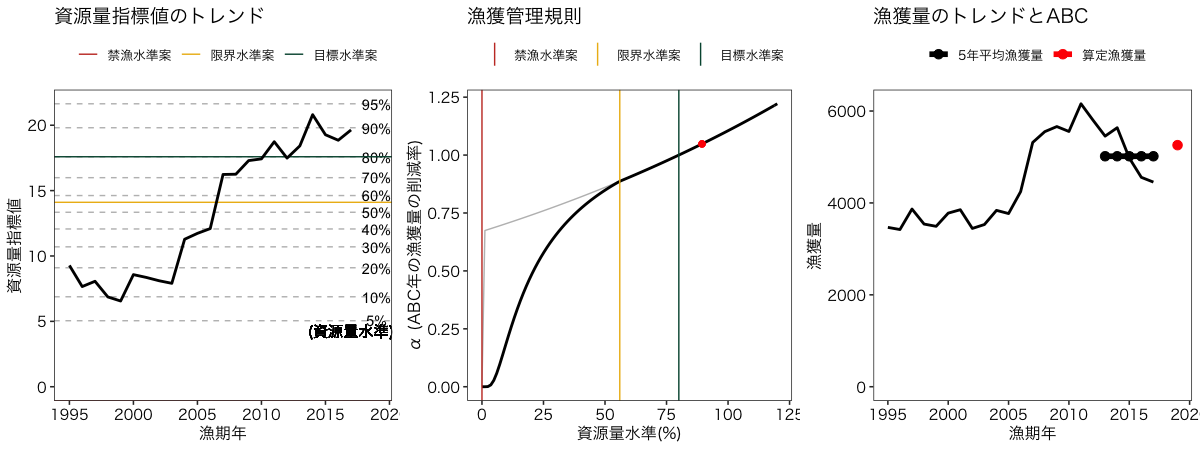
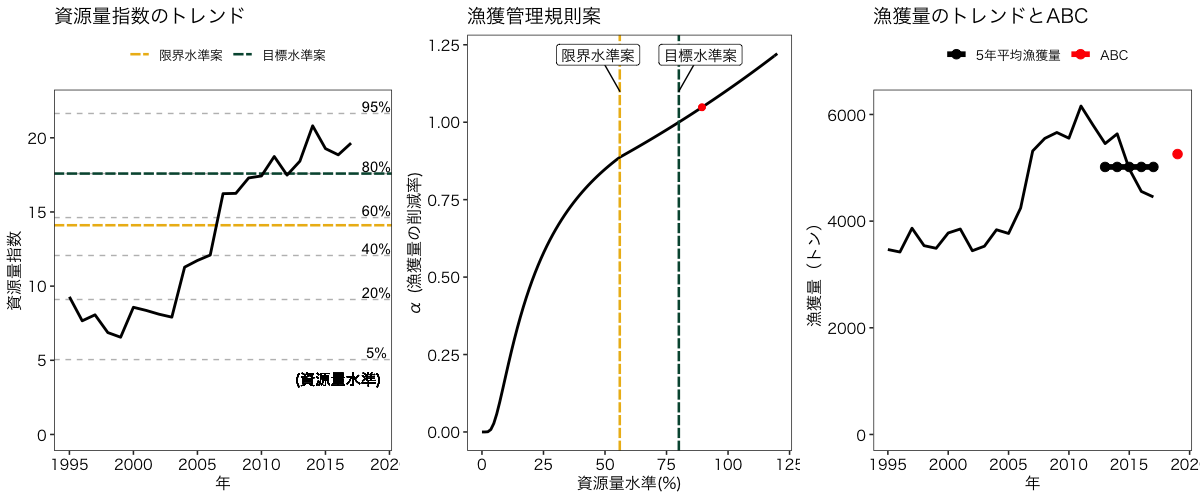
HCR比較のプロット修正,png差し替え

diff --git a/README.md b/README.md
@@ -95,7 +95,7 @@ abc2_aka_conservABC <- calc_abc2(data_aka,beta=0.9)
 ## 比較　ABCが決定できる魚種
 plot_hcr2(list(abc2_aka,abc2_aka_conservABC))
 ## 比較　ABCが決定できない魚種
-plot_hcr2(list(abc2_aka,abc2_aka_conservABC),detABC=1)
+plot_hcr2(list(abc2_aka,abc2_aka_conservABC))
 ```
 <!--
 ggsave(file="hcr2_compare.png",width=5,height=3)
